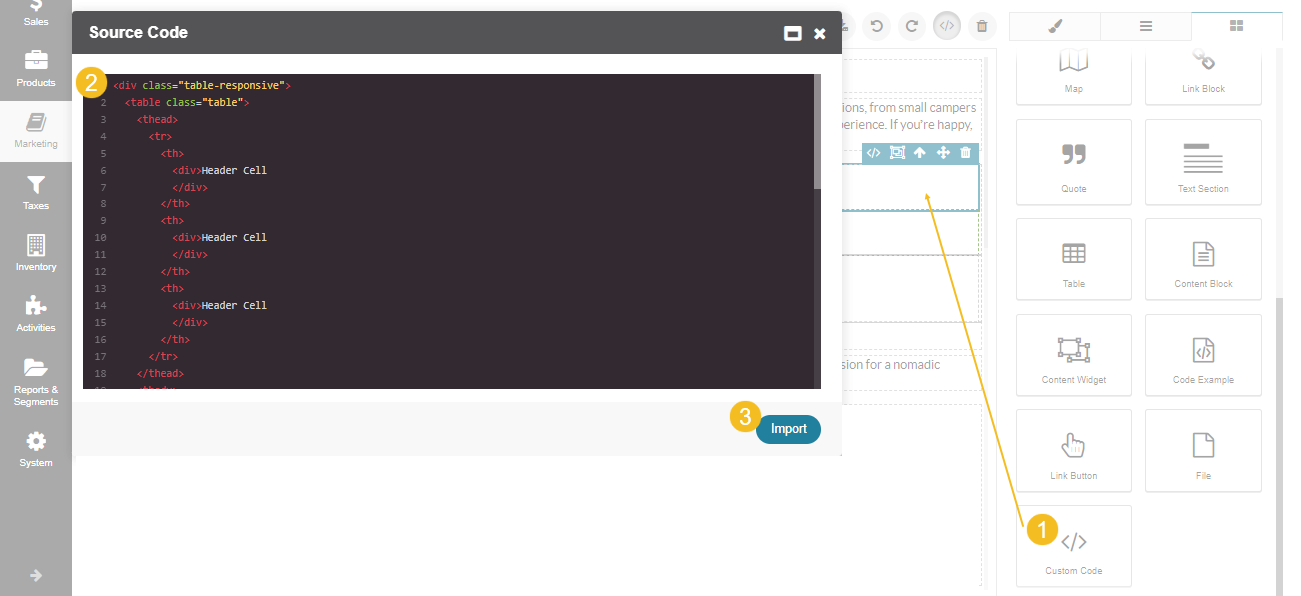
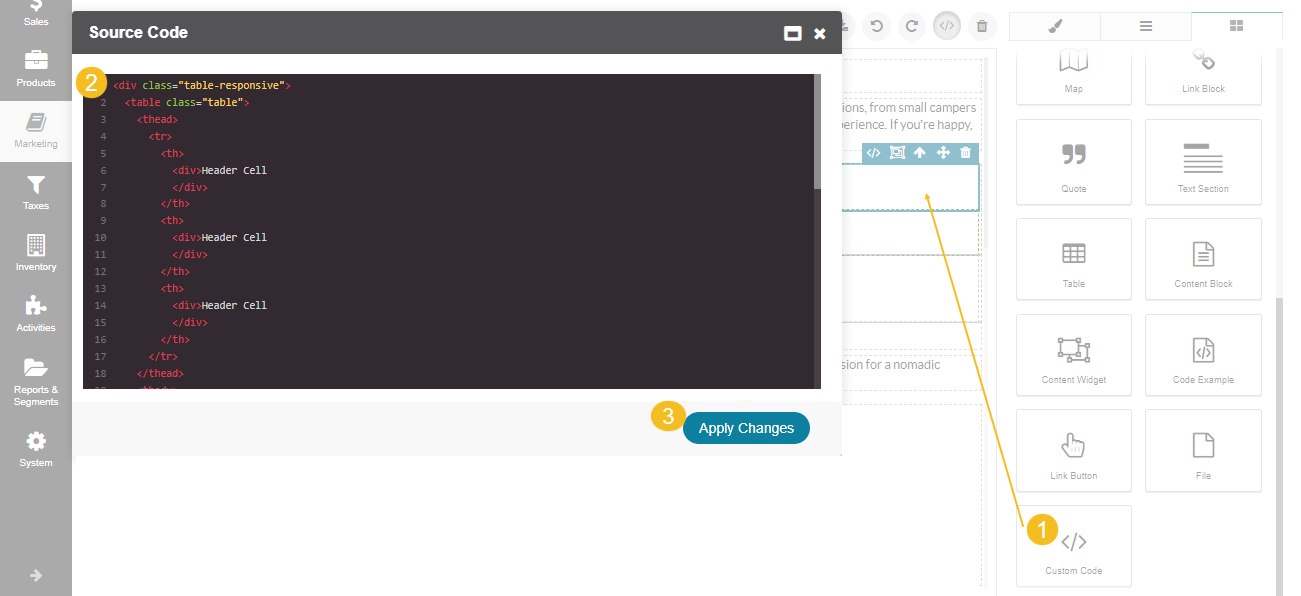
DOC-1977: Update screenshots for the WYSIWYG Source Code feature (#34768)

Changed region(s): [[0.4919, 0.6644, 0.6457, 0.755]]

diff --git a/user/concept-guides/content-management/wysiwyg.rst b/user/concept-guides/content-management/wysiwyg.rst
@@ -154,7 +154,7 @@ There are several options to embed some multimedia into the WYSIWYG editor, pres
 1. Drag the video, image, or map block to the canvas.
 2. Click **</>** Source Code on the top menu above the canvas to open the HTML editor.
 3. Find the video block and wrap it in a <div> container.
-4. Save it by clicking **Import** in the popup bottom corner.
+4. Save it by clicking **Apply Changes** in the popup bottom corner.
 
 .. image:: /user/img/concept-guides/content-management/wrapping_video_in_div.png
    :alt: Illustrating the four steps mention above
@@ -217,7 +217,7 @@ There are several options to embed some multimedia into the WYSIWYG editor, pres
 .. image:: /user/img/concept-guides/content-management/adding_aspect_ratio_code_to_styles.png
    :alt: Adding the aspect ratio code to the style tag
 
-6. Click **Import**.
+6. Click **Apply Changes**.
 7. Click **Save**.
 
 Insert Images
@@ -421,9 +421,9 @@ Input or Edit HTML Code
 
 If you are experienced at HTML coding, you can enter your own HTML code into the WYSIWYG editor via the **</> Source Code** popup dialog. There, you can also edit the existing HTML code that was already applied to the canvas based on the created content.
 
-Click **Import** to apply the changes made to the code.
+Click **Apply Changes** to apply the changes made to the code.
 
-Click **Export to ZIP** to create an HTML page based on the provided HTML code and export it to a ZIP file.
+Click **Download** to create an HTML page based on the provided HTML code and export it to a ZIP file.
 
 .. image:: /user/img/concept-guides/content-management/input_html_code.png
    :alt: Input HTML code into the WYSIWYG editor via the import popup dialog
@@ -435,7 +435,7 @@ To insert a piece of HTML code anywhere on the web page:
 
 1. Drag the **</> Custom Code** block to the required place of your canvas.
 2. Enter the desired HTML code.
-3. Click **Import**.
+3. Click **Apply Changes**.
 
 .. image:: /user/img/concept-guides/content-management/insert_piece_of_htm_code.png
    :alt: Inserting a piece of HTML code into the web page
@@ -468,11 +468,10 @@ Disable the GrapeJs Style Manager
 
 If you are importing a complex HTML code to the editor and want to preserve its styling, you can disable the WYSIWYG built-in style manager to prevent GrapeJs from breaking those styles.
 
- For that, you need to enable the external markup mode to import the required HTML code as is, with its initial formatting and styling.
+For that, you need to enable the external markup mode to import the required HTML code as is, with its initial formatting and styling.
 
- 1. Navigate to the **Settings** menu.
- 2. Select the **Enable External Markup** checkbox. Keep in mind that you will not be able to apply and customize styles of your content. If you exit the external markup mode, the editor may change the source code and break the imported content markup and styles.
-
+1. Navigate to the **Settings** menu.
+2. Select the **Enable External Markup** checkbox. Keep in mind that you will not be able to apply and customize styles of your content. If you exit the external markup mode, the editor may change the source code and break the imported content markup and styles.
 
 .. image:: /user/img/concept-guides/content-management/external-markup-button.png
    :alt: Disable WYSIWYG style manager

diff --git a/user/back-office/system/user-management/organizations/org-configuration/commerce/customers/organization-customer-users.rst b/user/back-office/system/user-management/organizations/org-configuration/commerce/customers/organization-customer-users.rst
@@ -37,7 +37,7 @@ To change the default customer user configuration settings for an organization:
 
 .. _organization-user-impersonation:
 
-7. In the **Login as Customer User** section, you can enable user impersonation for a specific organization. User impersonation allows back-office users with the **Login as Customer User** :ref:`role capability <admin-capabilities>` to access and operate the OroCommerce storefront as if they were logged in as a specific customer user.
+7. In the **Login as Customer User** section (available in the Enterprise edition), you can enable user impersonation for a specific organization. User impersonation allows back-office users with the **Login as Customer User** :ref:`role capability <admin-capabilities>` to access and operate the OroCommerce storefront as if they were logged in as a specific customer user.
 
 8. In the **Login Attempts** section, configure the following options:
 

diff --git a/user/back-office/system/user-management/roles/admin-capabilities.rst b/user/back-office/system/user-management/roles/admin-capabilities.rst
@@ -36,7 +36,7 @@ In the Account Management section, the following capabilities are available:
 
 .. comment: Enables to change the existing payment term for the customer and its customer users.
 
-* **Login as Customer User** --- Enables a back-office user to access and operate the OroCommerce storefront as if they were logged in as a specific customer user.
+* **Login as Customer User** --- Enables a back-office user to access and operate the OroCommerce storefront as if they were logged in as a specific customer user. Keep in mind that this feature is available in the Enterprise edition.
 
   .. image:: /user/img/system/user_management/user-impersonation-button.png
      :alt: User impersonation button
